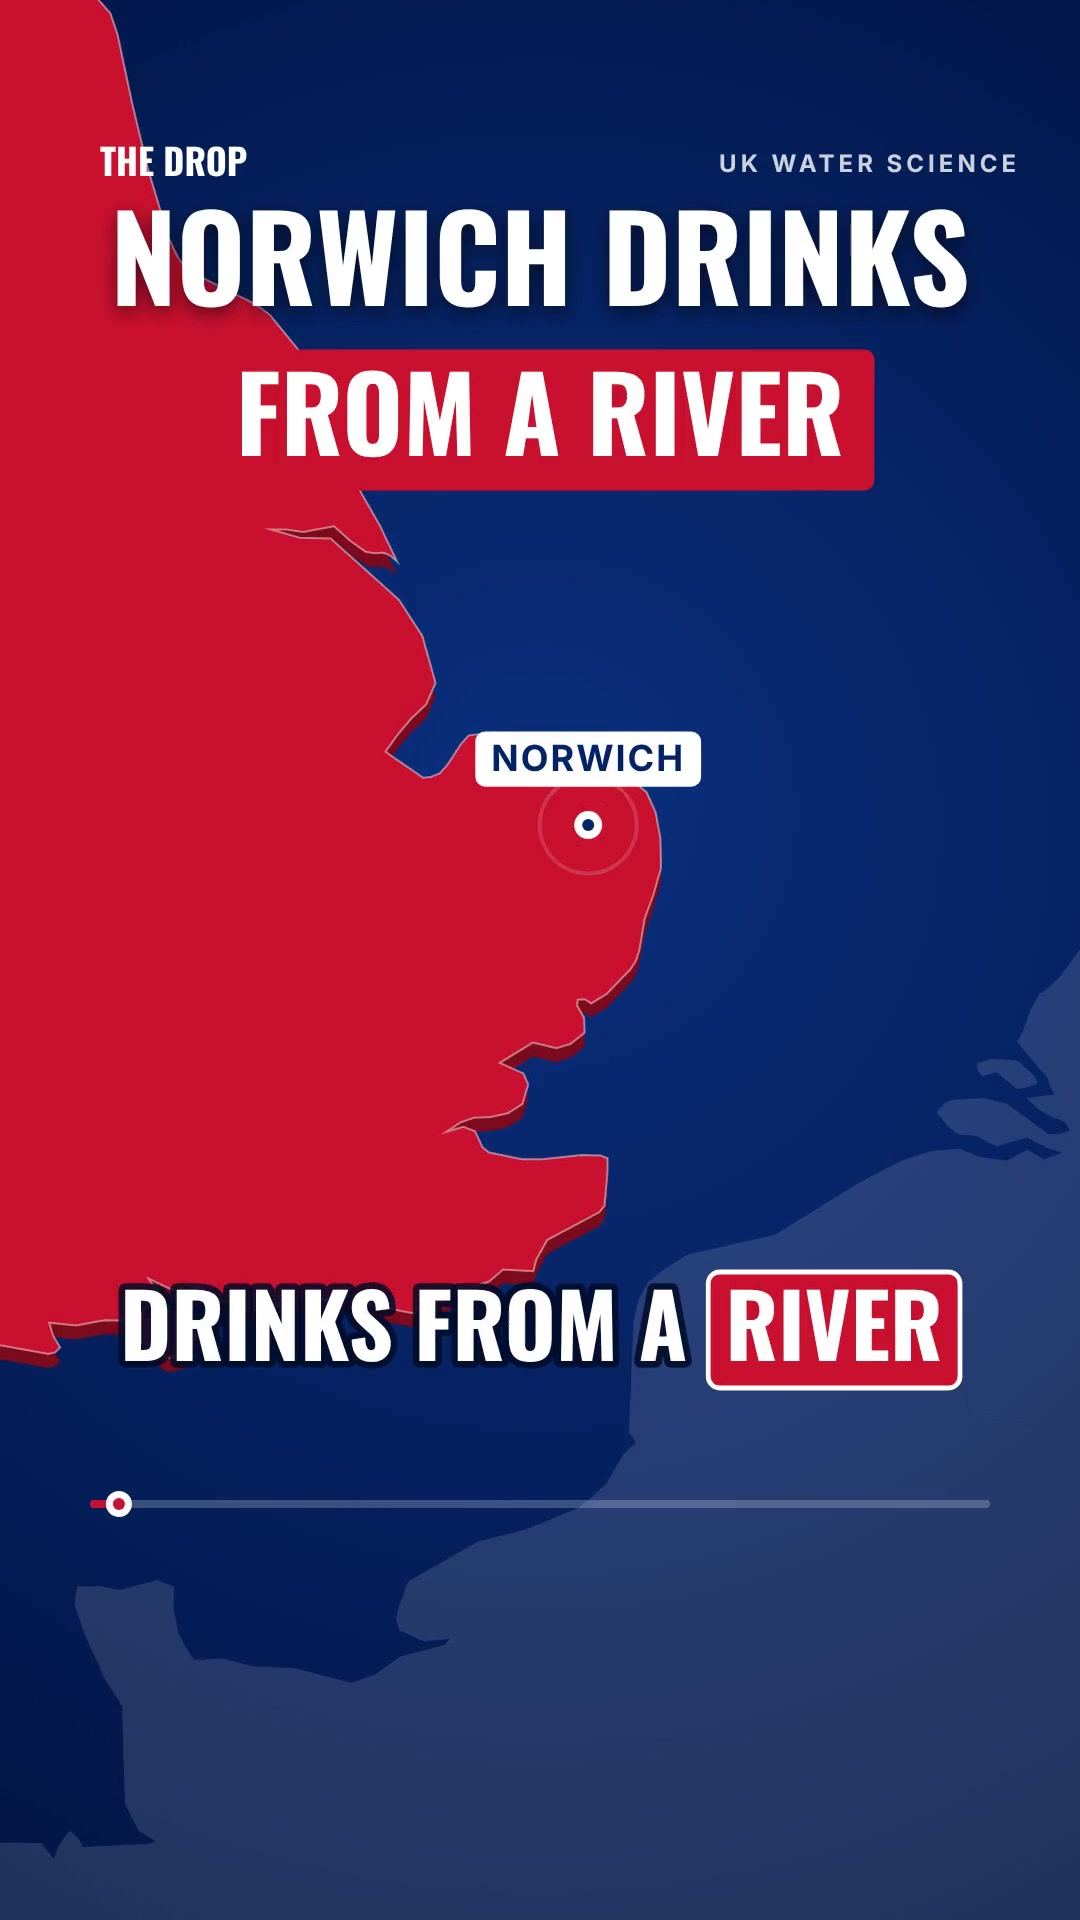
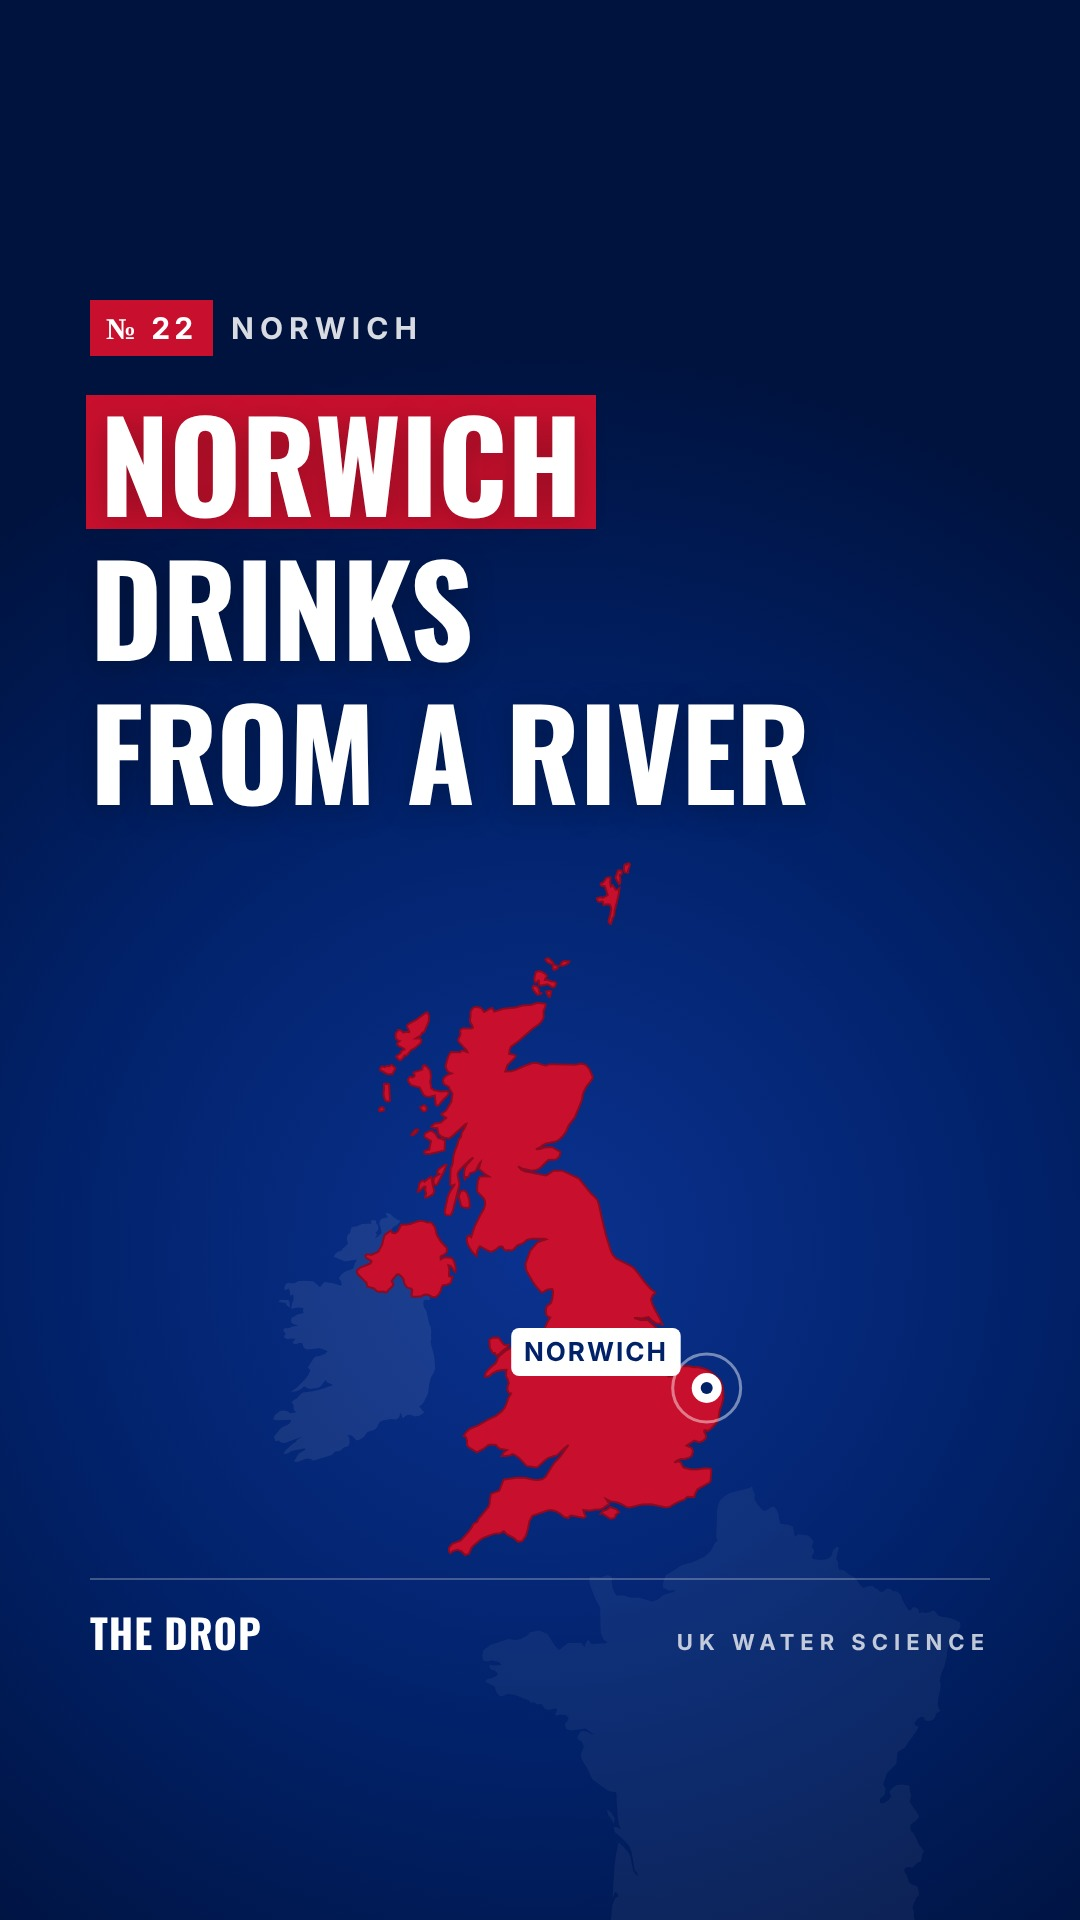
Harmonised reel covers: template, covers for posted and queued reels
Claude-Session: https://claude.ai/code/session_01CD1m4zmnzyrfYaBJVQeZBu

diff --git a/PLAYBOOK.md b/PLAYBOOK.md
@@ -66,8 +66,9 @@ node render.mjs scripts/<slug>.json out/<slug> --sheet      # one frame per seco
 node render.mjs scripts/<slug>.json out/<slug> --video
 ~/venv/bin/python sound.py scripts/<slug>.json out/<slug>
 ffmpeg -y -i out/<slug>/video_noaudio.mp4 -i out/<slug>/mix.wav -c:v copy -c:a aac -b:a 160k -shortest -movflags +faststart out/<slug>/reel.mp4
-ffmpeg -y -ss 1.2 -i out/<slug>/reel.mp4 -frames:v 1 -q:v 2 out/<slug>/cover.jpg
 ```
+
+**Cover (every reel):** add an entry to `engine/covers.json` (`slug`, `n` = the next number, `tag` = city or topic in caps, `title` = 2–3 short lines with one `*key*` phrase, and `pins` [["LABEL", lon, lat, side?]] for places or `icon` drop|kettle|flask|tap for topics), then `node covers.mjs covers.json out/covers <slug>` and use `out/covers/<slug>.jpg` as the queued `cover.jpg`. Same template for every reel so the profile grid stays harmonised; all text must sit inside the centre 3:4 band (the grid crop). Look at it before queueing (title fits, pin labels don't collide; set side "l", "r", "bl" or "br" to move a label).
 
 ## 5. Carousel (`engine/scripts/<slug>-carousel.json`)
 
